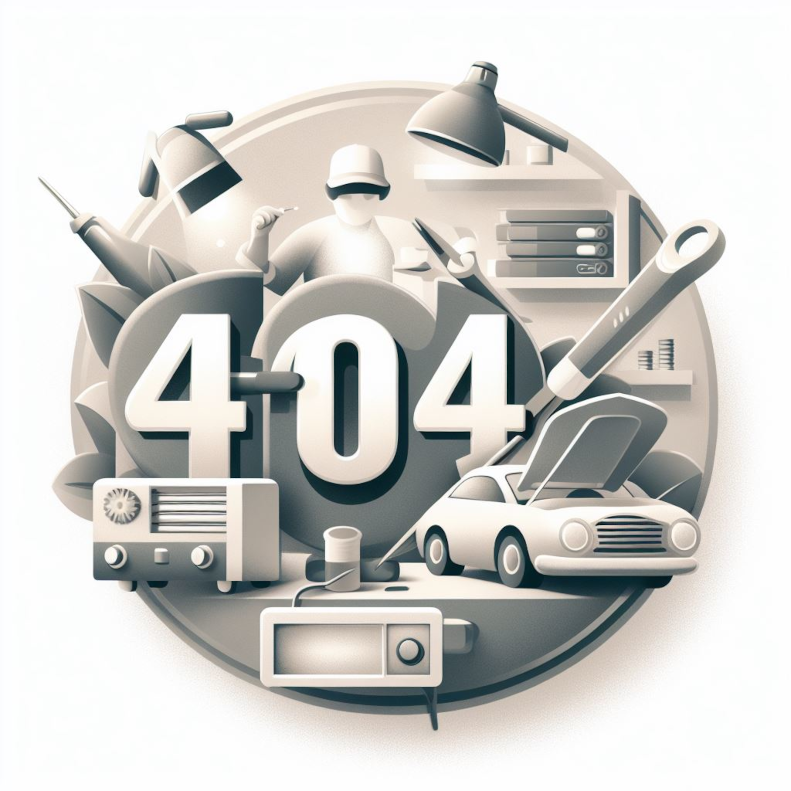
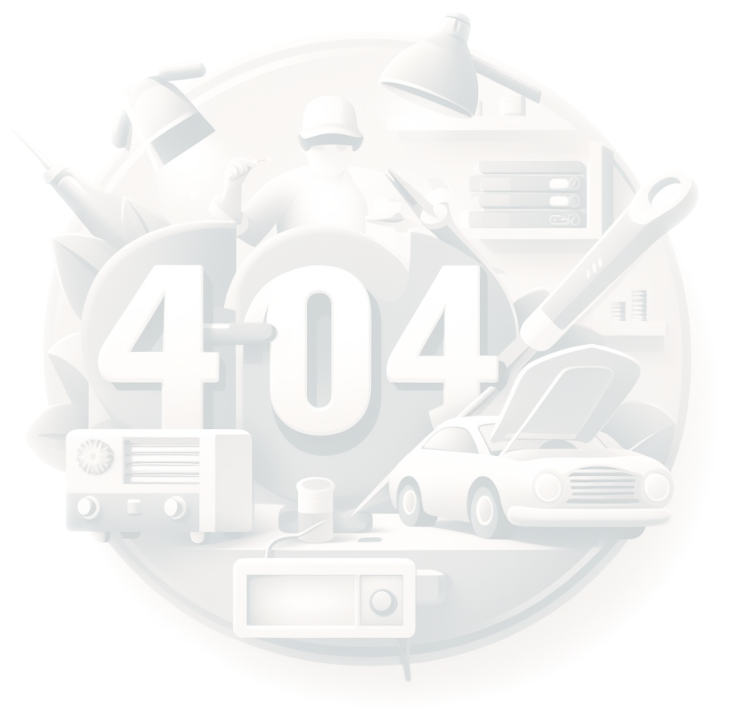
fix style and other in 404 page

diff --git a/src/assets/scss/elements/_notFound.module.scss b/src/assets/scss/elements/_notFound.module.scss
@@ -1,71 +1,37 @@
-/*
-    23. 404 page css
-*/
 .error__content {
-  &--img {
-    @media only screen and (max-width: 1199px) {
-      max-width: 600px;
-    }
-    @media only screen and (max-width: 767px) {
-      max-width: 450px;
-    }
-    @media only screen and (max-width: 575px) {
-      max-width: 100%;
-      padding: 0 3rem;
-    }
-  }
-  &--title {
-    font-weight: 600;
-    text-transform: uppercase;
-    margin-bottom: 1.5rem;
-    font-size: 2rem;
-    line-height: 3rem;
-    @media only screen and (min-width: 576px) {
-      margin-bottom: 1.5rem;
-      font-size: 2.4rem;
-      line-height: 2.8rem;
-    }
-    @media only screen and (min-width: 768px) {
-      margin-bottom: 1.8rem;
-      font-size: 3rem;
-      line-height: 3.5rem;
-    }
-    @media only screen and (min-width: 992px) {
-      font-size: 3.5rem;
-      line-height: 4rem;
-      margin-bottom: 2rem;
-    }
-    @media only screen and (min-width: 1200px) {
-      font-size: 3.8rem;
-      line-height: 4.3rem;
-      margin-bottom: 2.5rem;
-    }
-    @media only screen and (min-width: 1366px) {
-      font-size: 4rem;
-      line-height: 4.5rem;
-    }
-  }
-  &--desc {
-    font-size: 1.5rem;
-    @media only screen and (min-width: 768px) {
-      font-size: 1.6rem;
-      line-height: 2.2rem;
-      margin-bottom: 2.5rem;
-    }
-    @media only screen and (min-width: 992px) {
-      font-size: 1.7rem;
-      line-height: 2.2rem;
-      margin-bottom: 2.5rem;
-    }
-    @media only screen and (min-width: 1200px) {
-      font-size: 1.8rem;
-      line-height: 2.3rem;
-      margin-bottom: 3rem;
-    }
-  }
-  &--btn {
-    @media only screen and (min-width: 992px) {
-      font-size: 1.6rem;
-    }
-  }
+	display: flex;
+	flex-direction: column;
+	align-items: center;
+	justify-content: flex-start; /* Change the value to flex-start */
+	height: 70vh;
+	background-image: url('/src/img/other/404.png');
+	background-size: contain;
+	background-position: center;
+	background-repeat: no-repeat;
+	text-align: center;
+	padding: 2rem;
+	&--title {
+		font-weight: 600;
+		text-transform: uppercase;
+		margin-bottom: 1.5rem;
+		margin-top: auto;
+		font-size: 2rem;
+		line-height: 3rem;
+		text-shadow: 1px 1px 5px rgba(80, 79, 79, 0.5);
+		@media only screen and (min-width: 576px) {
+			margin-bottom: 1.5rem;
+			font-size: 2.4rem;
+			line-height: 2.8rem;
+		}
+	}
+	&--btn {
+		box-shadow: 1px 1px 10px rgba(0, 0, 0, 0.67);
+		align-self: center;
+		justify-self: center;
+		margin-top: 0rem;
+		margin-bottom: auto;
+		@media only screen and (min-width: 992px) {
+			font-size: 1.6rem;
+		}
+	}
 }

diff --git a/src/components/NotFound/NotFound.tsx b/src/components/NotFound/NotFound.tsx
@@ -1,33 +1,24 @@
 import * as React from 'react';
-import { Link } from 'react-router-dom';
 import { useTranslation } from 'react-i18next';
 
-import image404 from '../../img/other/404.png';
+import { Button } from 'react-bootstrap';
 
 const NotFound: React.FC = (): JSX.Element => {
 	const { t } = useTranslation('404-page');
 
+	const contentTitle = <h2 className="error__content--title">{t('content_title')}</h2>;
+	const contentDescription = <p className="error__content--desc">{t('content_desc')}</p>;
+	const buttonHome = (
+		<Button className="error__content--btn primary__btn" href="/">
+			{t('link_back_to_home')}
+		</Button>
+	);
 	return (
-		<section className="error__section section--padding">
-			<div className="container">
-				<div className="row row-cols-1">
-					<div className="col">
-						<div className="error__content text-center">
-							<img
-								className="error__content--img mb-50"
-								src={image404}
-								alt="404 error / page not found"
-							/>
-							<h2 className="error__content--title">{t('content_title')}</h2>
-							<p className="error__content--desc">{t('content_desc')}</p>
-							<Link className="error__content--btn primary__btn" to="/">
-								{t('link_back_to_home')}
-							</Link>
-						</div>
-					</div>
-				</div>
-			</div>
-		</section>
+		<div className="error__content">
+			{contentTitle}
+			{contentDescription}
+			{buttonHome}
+		</div>
 	);
 };
 
